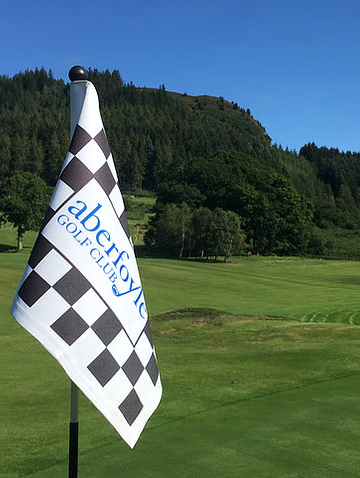
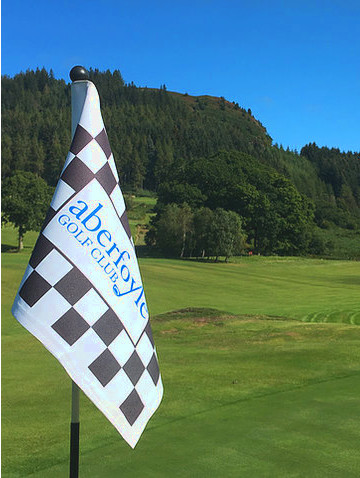
New background adjustments

diff --git a/index.html b/index.html
@@ -43,7 +43,7 @@
         <div class="dropdown-content">
           <a href='index.html#info-target' class="navlink">About</a>
           <a href='index.html#gallery' class="navlink">Gallery</a>
-          <a href='index.html#about-target' class="navlink">Reviews</a>
+          <a href='index.html#review-target' class="navlink">Reviews</a>
         </div>
       </div>
       <div class="dropdown">
@@ -177,7 +177,7 @@
   </form>
 </div>
 
-<div id="about-target" class="lg-container">
+<div id="review-target" class="lg-container">
   <div id="reviews">
     <h2>What our customers say...</h2><hr/>
     <script src="https://apps.elfsight.com/p/platform.js" defer></script>

diff --git a/css/style.css b/css/style.css
@@ -28,6 +28,7 @@ body {
   background-repeat: repeat;
   background-size: 1400px auto; 
   background-attachment: fixed;
+  background-position:top -20vh center; 
   position: relative;
   max-width: 1400px;
   background-color: var(--bg-light-grey);
@@ -155,7 +156,7 @@ a:focus,
   background-repeat: repeat;
   background-size: 100% auto; 
   background-attachment: fixed;
-  /* background-position: 0 45px; */
+  background-position: top 5vh center;
   position: relative;
   font-family: var(--title-font);
   color: white;
